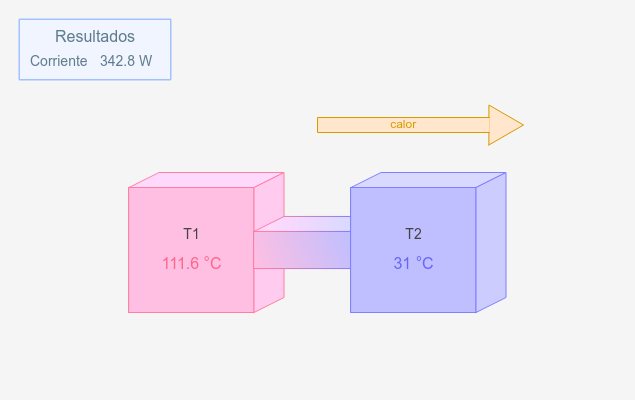
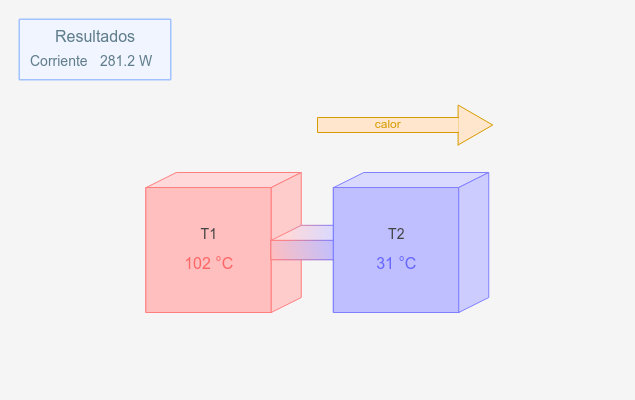
Solo dos colores para los bloques.

diff --git a/fisica/transferencia_calor/main.js b/fisica/transferencia_calor/main.js
@@ -4,7 +4,6 @@ var OFY = 0.3;                              // Offset in the -y axis for the 3d 
 var BOX_LABEL_WIDTH = 70;                   // Width of labels in the result box.
 var MIN_TEMP = -20, MAX_TEMP = 300;         // Define the temperature range.
 var FONT_COLOR = "#444444";                 // Default font color.
-var TEMP_GRADIENT = [[0, 0, 255], [0, 0, 100], [255, 0, 0], [255, 0, 0], [255, 50, 0]];   // Defines the colors in the gradient. They are equally spaced.
 var BLOCK_W = 2.5;                          // Width the blocks that will transfer heat.
 var ARROW_BODY_H = 0.3;                     // Height of the arrow's body.
 var ARROW_HEAD_L = 0.8;                     // Side length of the arrow's head.
@@ -78,33 +77,6 @@ function shadeColor(color, percent) {
   return '#' + (0x1000000 + (R < 255 ? R : 255) * 0x10000 + (G < 255 ? G : 255) * 0x100 + (B < 255 ? B : 255)).toString(16).slice(1);
 }
 
-/**
- * Converts a temperature to a color according to the defined gradient.
- */
-function tempToColor(t) {
-  
-  // Normalize temperature between 0 and 1.
-  var normT = (t + Math.abs(MIN_TEMP)) / (Math.abs(MIN_TEMP) + Math.abs(MAX_TEMP));
-  if (normT < 0) normT = 0;
-  if (normT > 1) normT = 1;
-
-  // Determine between which colors the temperature is.
-  var c1Idx = normT >= 1 ? TEMP_GRADIENT.length - 2 : Math.floor(normT * (TEMP_GRADIENT.length - 1));
-  var c2Idx = c1Idx + 1;
-
-  // Where between those colors is the current.
-  var percentStep = 1 / (TEMP_GRADIENT.length - 1);
-  var k = (normT - (percentStep * c1Idx)) / percentStep;
-
-  // Interpolate between those colors.
-  var r = Math.floor((TEMP_GRADIENT[c2Idx][0] - TEMP_GRADIENT[c1Idx][0]) * k + TEMP_GRADIENT[c1Idx][0]);
-  var g = Math.floor((TEMP_GRADIENT[c2Idx][1] - TEMP_GRADIENT[c1Idx][1]) * k + TEMP_GRADIENT[c1Idx][1]);
-  var b = Math.floor((TEMP_GRADIENT[c2Idx][2] - TEMP_GRADIENT[c1Idx][2]) * k + TEMP_GRADIENT[c1Idx][2]);
-  return [r, g, b];
-
-} 
-
-
 // Set the initial state of all variables.
 function reset() {
 
@@ -113,8 +85,13 @@ function reset() {
   labels.heatTransfer.set(heatTransfer);
 
   // Calculate the block's colors.
-  t1Color = tempToColor(controls.t1.value);
-  t2Color = tempToColor(controls.t2.value);
+  if (controls.t1.value === controls.t2.value) {
+    t1Color = [0,0,0];
+    t2Color = [0,0,0];
+  } else {
+    t1Color = controls.t1.value > controls.t2.value ? [255,0,0] : [0,0,255];
+    t2Color = controls.t1.value < controls.t2.value ? [255,0,0] : [0,0,255];
+  }
 
   // Set the sliders' color.
   controls.t1.setColor(shadeColor(t1Color, 40));
@@ -216,8 +193,6 @@ function draw3dRect(x, y, width, height, color, color2) {
  */
 function drawSimulation() {
 
-
-  
   // Move the simulation to the left to compensate for perspective offset.
   // Therby centering the drawing.
   sim.save();
